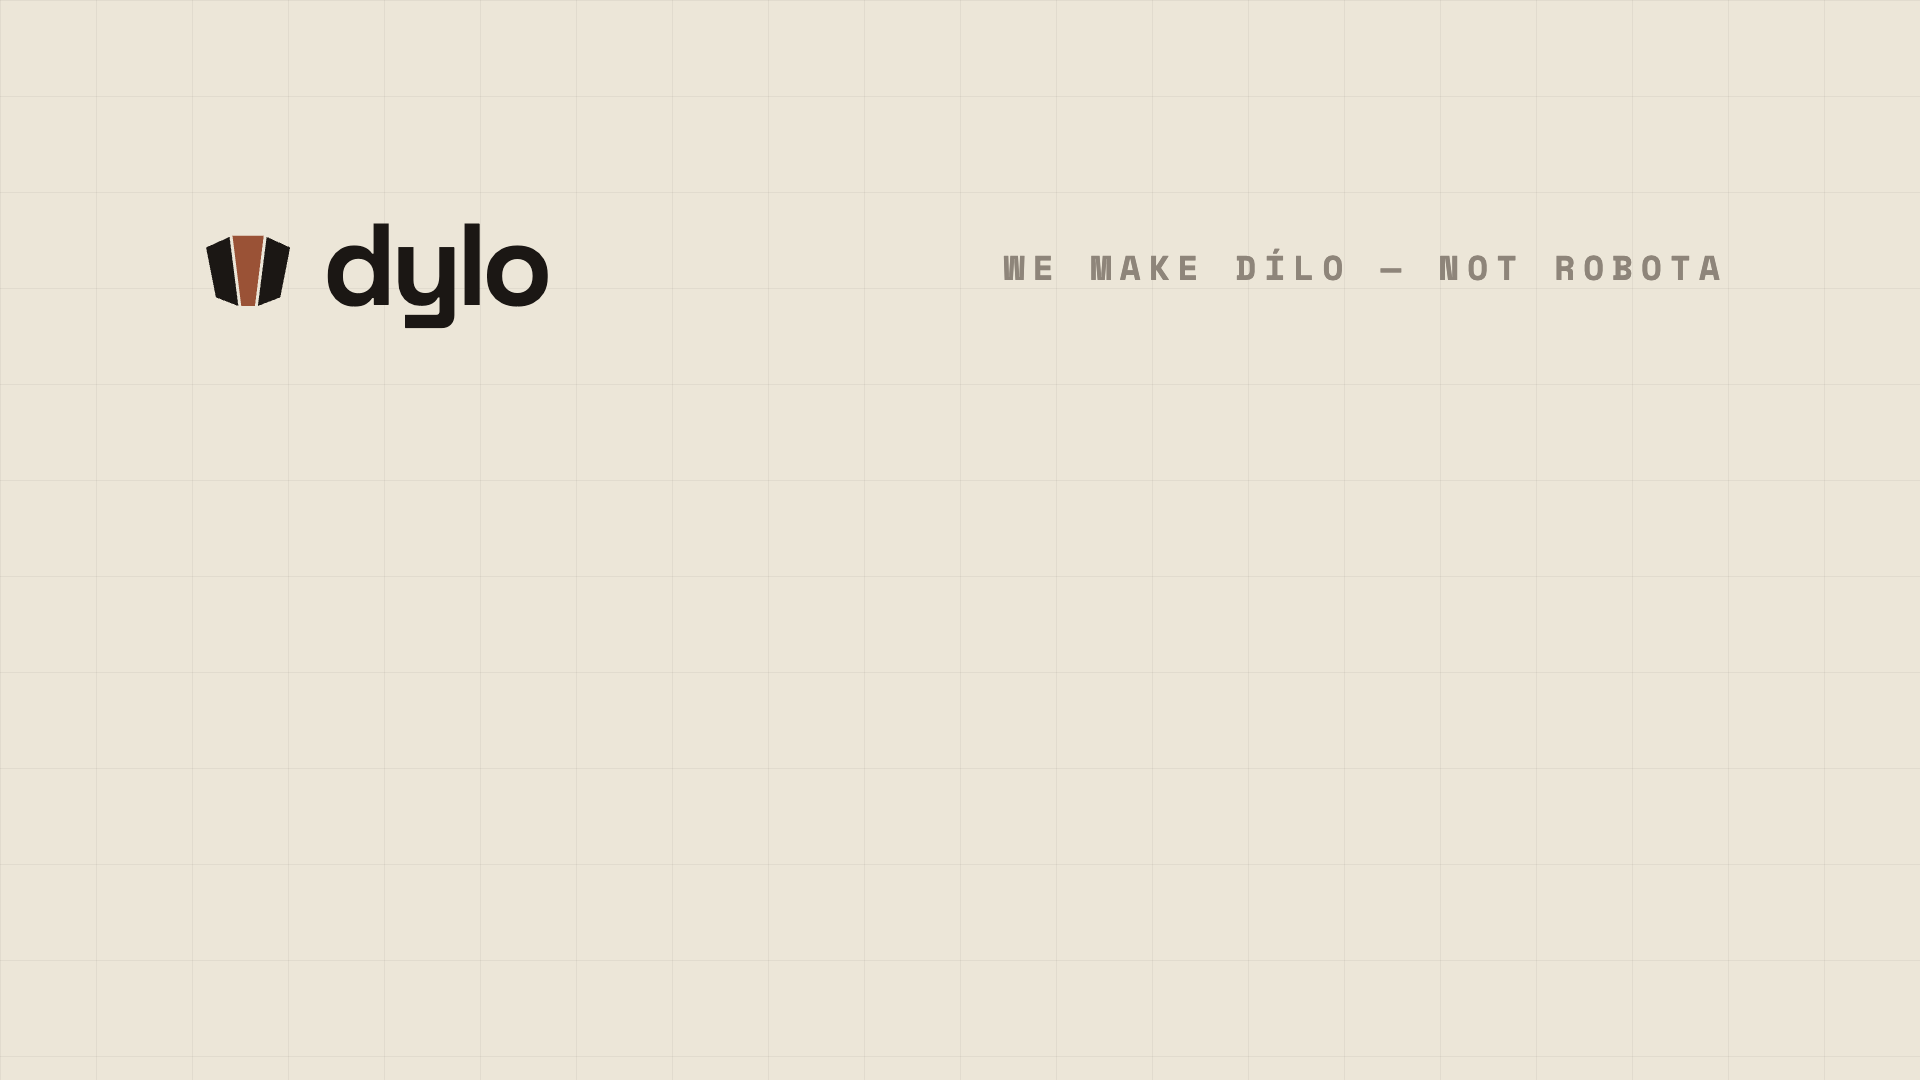
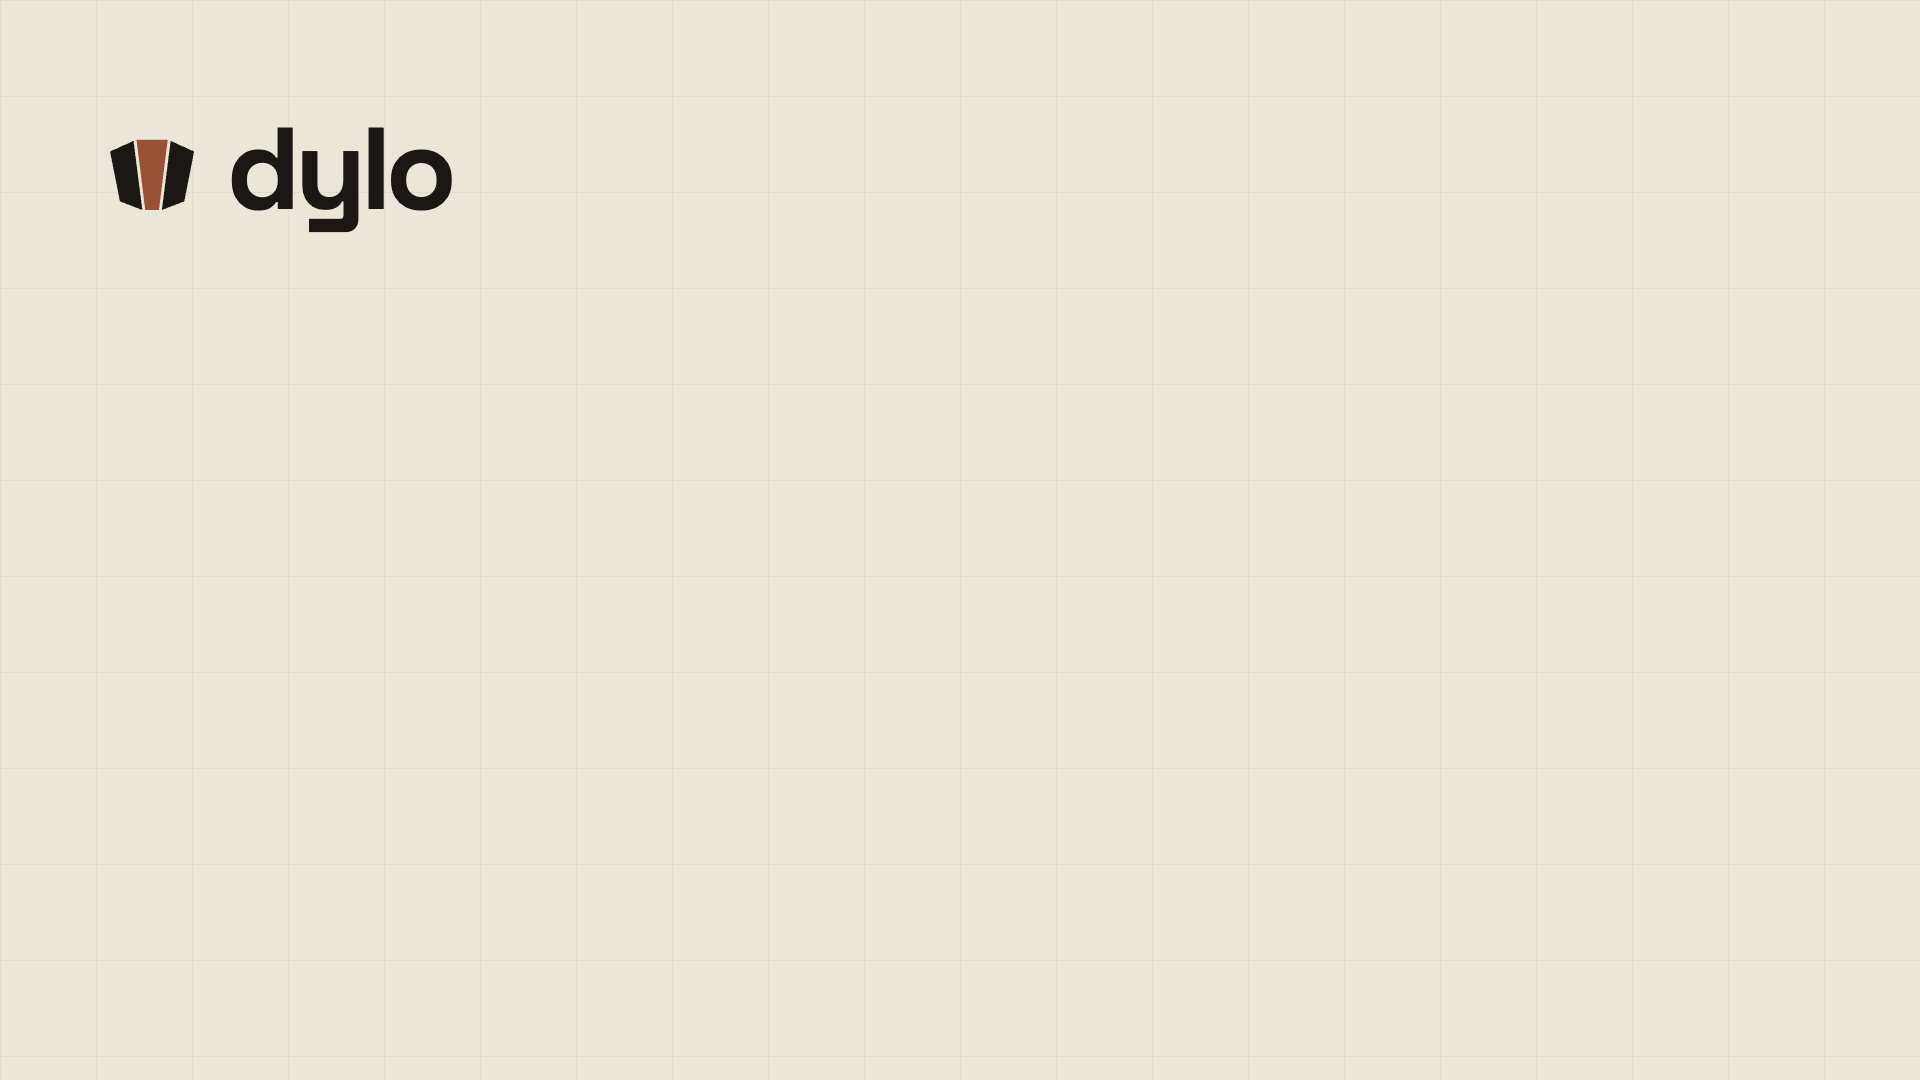
Drop the tagline from the video call background
Leaves the lockup alone in the top-left, one grid cell in from the corner
rather than two. On a call the quieter mark carries better than a line of
copy nobody is there to read.

diff --git a/brand-templates/meet-background.html b/brand-templates/meet-background.html
@@ -26,13 +26,13 @@
          Two constraints drive the layout, and both come from how the image is
          actually seen rather than from how it looks at full size:
 
-         1. Everything sits in a top band. The person occupies the centre and
+         1. The lockup sits in the top-left. The person occupies the centre and
             the lower third, and Meet puts the participant name chip in the
-            bottom-left of the tile, so the top corners are the only reliably
+            bottom-left of the tile, so that corner is the only reliably
             visible area.
-         2. Everything is far larger than page equivalents. A tile is commonly
+         2. It is far larger than a page equivalent. A tile is commonly
             rendered around 480px wide, so this is seen at roughly quarter
-            scale — page-sized type would land at about 4px. */
+            scale — a page-sized lockup would land at about 18px tall. */
 
       :root {
         --dylo-ink: #1b1714;
@@ -65,7 +65,8 @@
       .frame {
         width: 1920px;
         height: 1080px;
-        padding: 192px;
+        /* One grid cell in from the corner. */
+        padding: 96px;
         /* The engineering grid at 96px, two of the system's 48px cells. At
            quarter scale that reads the way 48px reads on a page; 48px here
            would collapse into moire. */
@@ -86,81 +87,55 @@
           linear-gradient(90deg, var(--dylo-grid-line-reversed) 1px, transparent 1px);
       }
 
-      /* The top band. Nothing else is placed on the frame. */
-      .band {
-        display: flex;
-        align-items: center;
-        justify-content: space-between;
-        gap: 96px;
-      }
-
+      /* The lockup is the only thing placed on the frame. */
       .lockup {
         height: 150px;
         width: auto;
         display: block;
-        flex: none;
-      }
-
-      .tagline {
-        margin: 0;
-        font-family: 'Space Mono', ui-monospace, monospace;
-        font-weight: 700;
-        font-size: 34px;
-        line-height: 1;
-        letter-spacing: var(--dylo-tracking-eyebrow);
-        text-transform: uppercase;
-        color: var(--dylo-concrete);
-        text-align: right;
       }
     </style>
   </head>
   <body>
     <div class="frame frame--bone">
-      <div class="band">
-        <svg class="lockup" viewBox="0 0 236.4 96" role="img" aria-label="dylo">
-          <g transform="translate(-4.1,13) scale(1.25)">
-            <path d="M10.5,18 L22.5,12.6 L27,48 L15.5,43.5 Z" fill="#1B1714"></path>
-            <path d="M53.5,18 L41.5,12.6 L37,48 L48.5,43.5 Z" fill="#1B1714"></path>
-            <path d="M24,12 L40,12 L35.5,48 L28.5,48 Z" fill="#9A5236"></path>
-          </g>
-          <text
-            x="83.6"
-            y="72"
-            font-family="'Space Grotesk','Helvetica Neue',Arial,sans-serif"
-            font-weight="700"
-            font-size="74"
-            letter-spacing="-3.5"
-            fill="#1B1714"
-          >
-            dylo
-          </text>
-        </svg>
-        <p class="tagline">We make dílo — not robota</p>
-      </div>
+      <svg class="lockup" viewBox="0 0 236.4 96" role="img" aria-label="dylo">
+        <g transform="translate(-4.1,13) scale(1.25)">
+          <path d="M10.5,18 L22.5,12.6 L27,48 L15.5,43.5 Z" fill="#1B1714"></path>
+          <path d="M53.5,18 L41.5,12.6 L37,48 L48.5,43.5 Z" fill="#1B1714"></path>
+          <path d="M24,12 L40,12 L35.5,48 L28.5,48 Z" fill="#9A5236"></path>
+        </g>
+        <text
+          x="83.6"
+          y="72"
+          font-family="'Space Grotesk','Helvetica Neue',Arial,sans-serif"
+          font-weight="700"
+          font-size="74"
+          letter-spacing="-3.5"
+          fill="#1B1714"
+        >
+          dylo
+        </text>
+      </svg>
     </div>
 
     <div class="frame frame--ink">
-      <div class="band">
-        <svg class="lockup" viewBox="0 0 236.4 96" role="img" aria-label="dylo">
-          <g transform="translate(-4.1,13) scale(1.25)">
-            <path d="M10.5,18 L22.5,12.6 L27,48 L15.5,43.5 Z" fill="#ECE6D8"></path>
-            <path d="M53.5,18 L41.5,12.6 L37,48 L48.5,43.5 Z" fill="#ECE6D8"></path>
-            <path d="M24,12 L40,12 L35.5,48 L28.5,48 Z" fill="#9A5236"></path>
-          </g>
-          <text
-            x="83.6"
-            y="72"
-            font-family="'Space Grotesk','Helvetica Neue',Arial,sans-serif"
-            font-weight="700"
-            font-size="74"
-            letter-spacing="-3.5"
-            fill="#ECE6D8"
-          >
-            dylo
-          </text>
-        </svg>
-        <p class="tagline">We make dílo — not robota</p>
-      </div>
+      <svg class="lockup" viewBox="0 0 236.4 96" role="img" aria-label="dylo">
+        <g transform="translate(-4.1,13) scale(1.25)">
+          <path d="M10.5,18 L22.5,12.6 L27,48 L15.5,43.5 Z" fill="#ECE6D8"></path>
+          <path d="M53.5,18 L41.5,12.6 L37,48 L48.5,43.5 Z" fill="#ECE6D8"></path>
+          <path d="M24,12 L40,12 L35.5,48 L28.5,48 Z" fill="#9A5236"></path>
+        </g>
+        <text
+          x="83.6"
+          y="72"
+          font-family="'Space Grotesk','Helvetica Neue',Arial,sans-serif"
+          font-weight="700"
+          font-size="74"
+          letter-spacing="-3.5"
+          fill="#ECE6D8"
+        >
+          dylo
+        </text>
+      </svg>
     </div>
   </body>
 </html>

diff --git a/src/app/foundations/brand/page.tsx b/src/app/foundations/brand/page.tsx
@@ -118,7 +118,7 @@ export default function BrandPage() {
 
       <Section
         title="Video call background"
-        description="1920×1080, for Google Meet, Zoom or Teams. Everything sits in a top band: the person takes the centre and the lower third, and Meet puts the participant name chip in the bottom-left."
+        description="1920×1080, for Google Meet, Zoom or Teams. The lockup sits in the top-left: the person takes the centre and the lower third, and Meet puts the participant name chip in the bottom-left."
       >
         <div className="grid gap-4 sm:grid-cols-2">
           {MEET_BACKGROUNDS.map((background) => (
@@ -146,8 +146,8 @@ export default function BrandPage() {
         </div>
         <Prose>
           <p className="mt-4">
-            The type is deliberately much larger than a page equivalent — a call tile is commonly rendered around 480px
-            wide, so the image is seen at roughly quarter scale. Regenerate them from{' '}
+            The lockup is deliberately much larger than a page equivalent — a call tile is commonly rendered around
+            480px wide, so the image is seen at roughly quarter scale. Regenerate them from{' '}
             <code>brand-templates/meet-background.html</code>; the capture recipe is in the comment at the top.
           </p>
         </Prose>
